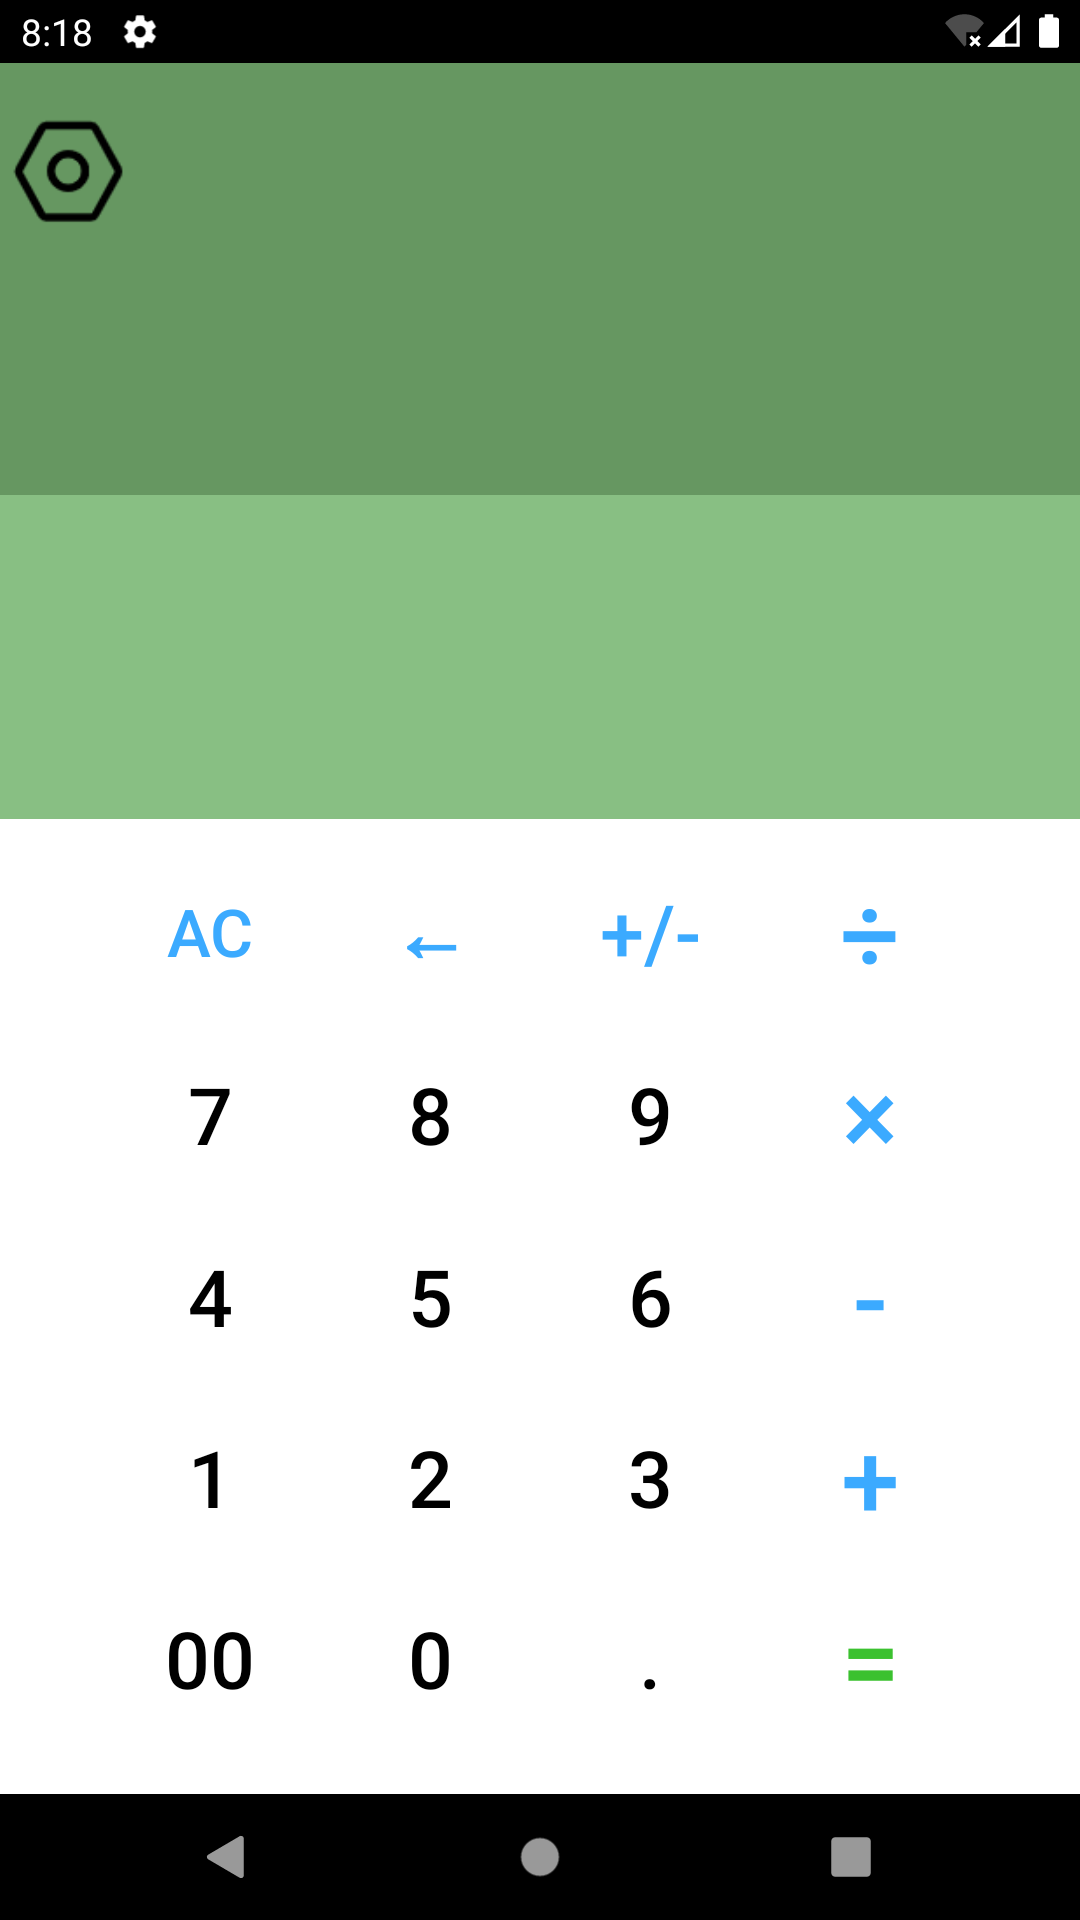
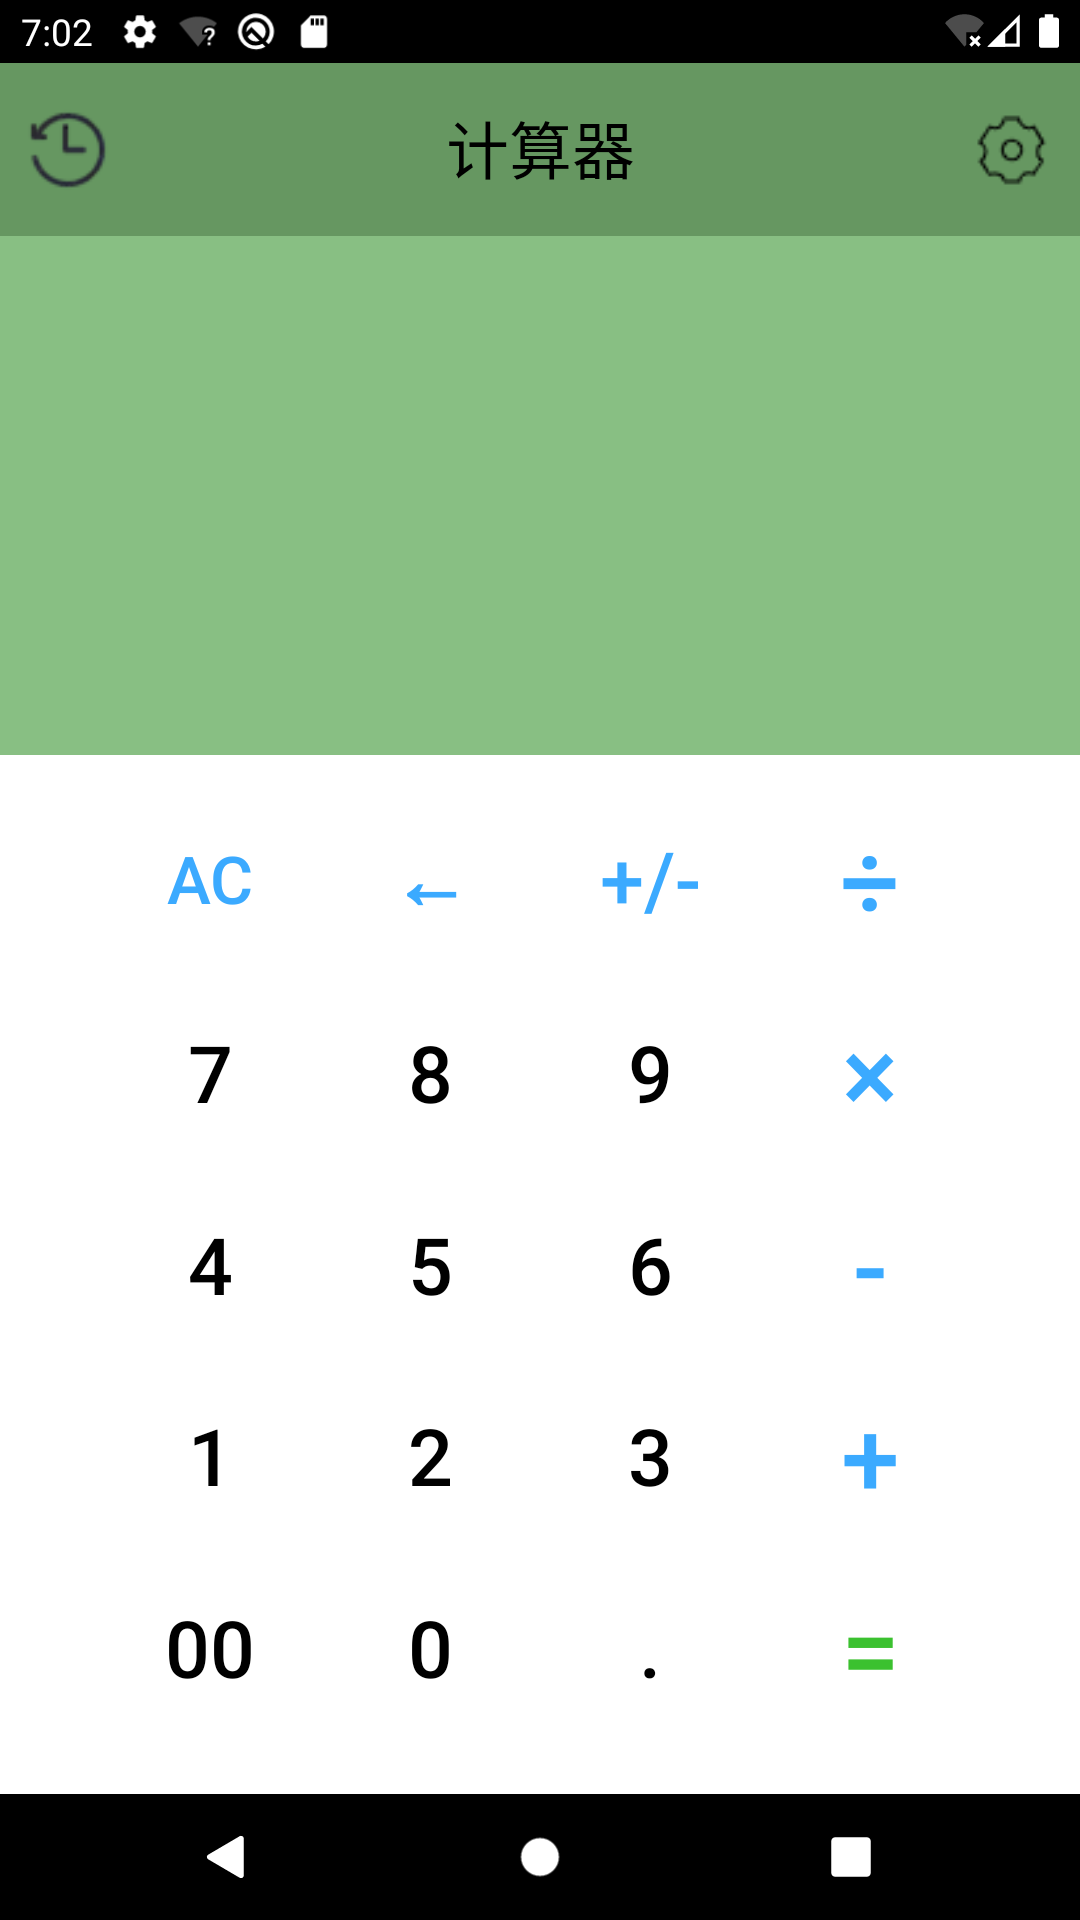
update: 1. ui 2. release apk name

diff --git a/app/src/main/java/com/js/calculator/MainActivity.kt b/app/src/main/java/com/js/calculator/MainActivity.kt
@@ -19,6 +19,7 @@ class MainActivity : AppCompatActivity() {
     private lateinit var etInput1: EditText
     private lateinit var etInput2: EditText
     private lateinit var btnSetting: ImageButton
+    private lateinit var btnHistory: ImageButton
     private lateinit var tvOperator: TextView
     private lateinit var etOutput: EditText
 
@@ -40,15 +41,21 @@ class MainActivity : AppCompatActivity() {
         etInput1 = findViewById(R.id.et_input1)
         etInput2 = findViewById(R.id.et_input2)
 
-        tvOperator = findViewById(R.id.tv_oprt)
+        tvOperator = findViewById(R.id.tv_operator)
         etOutput = findViewById(R.id.et_output)
 
         btnSetting = findViewById(R.id.btn_setting)
+        btnHistory = findViewById(R.id.btn_history)
 
         btnSetting.setOnClickListener {
-//            ToastUtil.showLastShortMessage(this, "设置（正在开发）")
-            intent.setClass(this, MoreActivity().javaClass)
-            startActivity(intent)
+            ToastUtil.showLastShortMessage(this, "设置（正在开发）")
+//            intent.setClass(this, MoreActivity().javaClass)
+//            startActivity(intent)
+        }
+        btnHistory.setOnClickListener {
+            ToastUtil.showLastShortMessage(this, "计算历史（正在开发）")
+//            intent.setClass(this, HistoryActivity().javaClass)
+//            startActivity(intent)
         }
 
         val btn0: Button = findViewById(R.id.btn_0)

diff --git a/app/src/main/java/com/js/calculator/HistoryActivity.kt b/app/src/main/java/com/js/calculator/HistoryActivity.kt
@@ -1,0 +1,11 @@
+package com.js.calculator
+
+import androidx.appcompat.app.AppCompatActivity
+import android.os.Bundle
+
+class HistoryActivity : AppCompatActivity() {
+    override fun onCreate(savedInstanceState: Bundle?) {
+        super.onCreate(savedInstanceState)
+        setContentView(R.layout.activity_history)
+    }
+}
